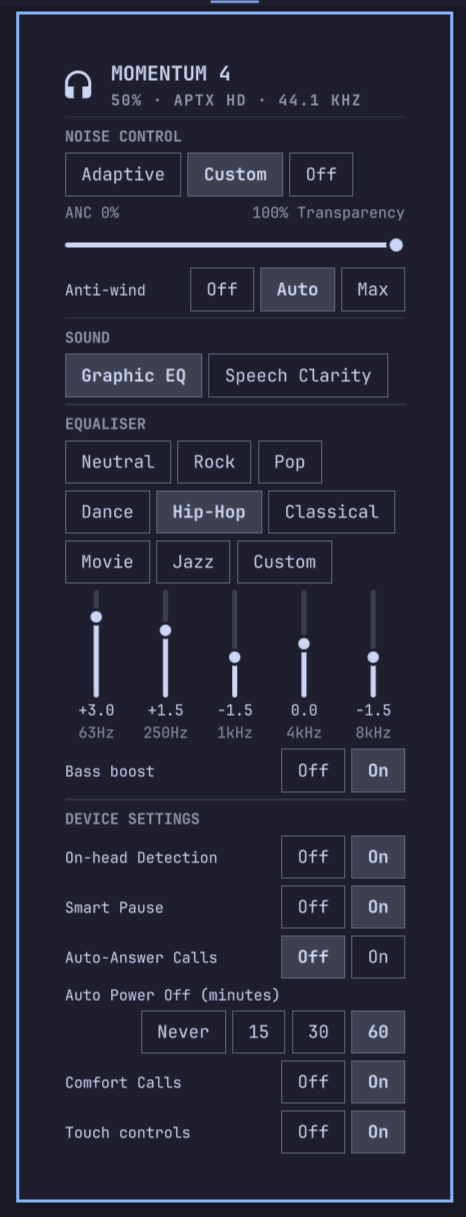
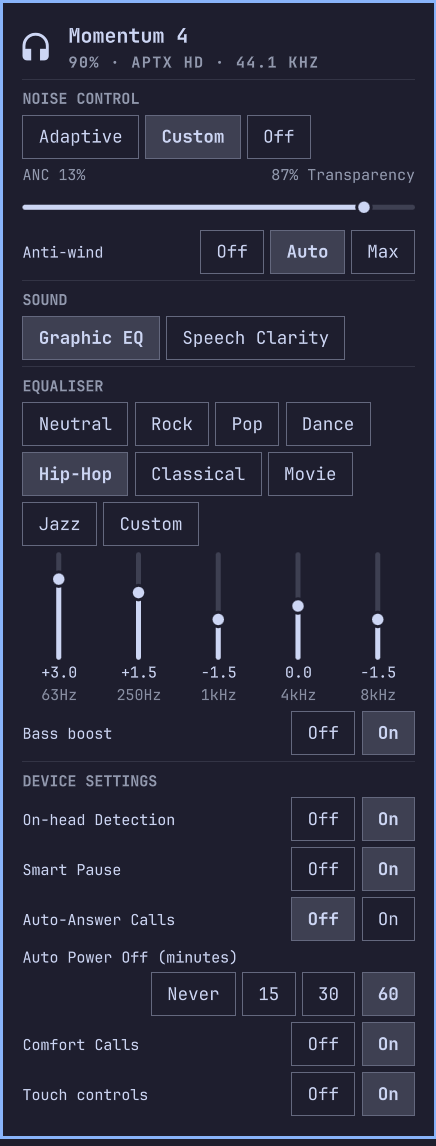
1.3.6: standard panel insets, title-cased device name, shorter README
Panel content fills the KeyboardPanel surface with no margins of its own
and passes a bare implicitHeight, matching the first-party panels. The
hero shows 'Momentum 4' instead of the shouted Bluetooth name. README cut
to 775 words, no em dashes. Screenshots refreshed.

Changed region(s): [[0.0, 0.0, 1.0, 1.0], [0.4472, 0.5192, 0.5367, 0.6108], [0.7156, 0.0611, 0.7752, 0.0916]]

diff --git a/Panel.qml b/Panel.qml
@@ -64,6 +64,17 @@ Panel {
   property bool busy: false
   property bool stale: false          // last poll failed; readings are old
 
+  // The headphones report their Bluetooth name as "MOMENTUM 4"; shouting it
+  // in the header reads worse than the product's own name. Title-case only
+  // when the name is entirely upper case, so a device that names itself
+  // properly is left alone.
+  readonly property string displayName: {
+    var n = root.deviceName !== "" ? root.deviceName : "Headphones"
+    return n === n.toUpperCase()
+      ? n.toLowerCase().replace(/\b[a-z]/g, function (c) { return c.toUpperCase() })
+      : n
+  }
+
   readonly property bool present: percentage >= 0
   readonly property bool low: present && percentage <= 20
 
@@ -262,10 +273,7 @@ Panel {
     open: root.opened
     focusTarget: keyCatcher
     contentWidth: panel.fittedContentWidth(Style.space(300))
-    // panelColumn.implicitHeight excludes its own anchors.margins, so passing
-    // it raw made the panel two paddings too short and clipped the last row.
-    contentHeight: panel.fittedContentHeight(
-      panelColumn.implicitHeight + Style.spacing.panelPadding * 2, Style.space(900))
+    contentHeight: panel.fittedContentHeight(panelColumn.implicitHeight, Style.space(900))
 
     PanelKeyCatcher {
       id: keyCatcher
@@ -278,10 +286,10 @@ Panel {
 
       Column {
         id: panelColumn
-        anchors.left: parent.left
-        anchors.right: parent.right
-        anchors.top: parent.top
-        anchors.margins: Style.spacing.panelPadding
+        // anchors.fill, no margins of our own: KeyboardPanel already pads the
+        // surface, and adding panelPadding on top of it was what made this
+        // panel sit inside a much fatter border than the built-in ones.
+        anchors.fill: parent
         spacing: Style.spacing.sm
         // While the device is connected but not answering (another client
         // holds the channel), the readings are last-known and a write would
@@ -293,7 +301,7 @@ Panel {
         // right — the shape the built-in panels and other plugins use.
         PanelHero {
           width: parent.width
-          title: root.deviceName !== "" ? root.deviceName : "Headphones"
+          title: root.displayName
           // Kept short: the badge eats the right-hand side, and a longer
           // string elides mid-codec.
           meta: (root.present ? root.percentage + "%" + (root.charging ? " · charging" : "")

diff --git a/README.md b/README.md
@@ -1,20 +1,20 @@
 # Sennheiser Momentum 4
 
-Control your **Sennheiser Momentum 4** headphones from the [Omarchy](https://omarchy.org/) bar — battery, noise control, EQ and touch controls, without reaching for your phone.
+Control Sennheiser Momentum 4 headphones from the [Omarchy](https://omarchy.org/)
+bar: battery, noise control, EQ and touch controls, without reaching for
+your phone.
 
 ![Battery in the bar](docs/bar.png)
 
 ![The panel](docs/panel.png)
 
-This is built for one set of headphones. It speaks the Momentum 4's own
-protocol, so it will not work with anything else. It is self-contained —
-plain Python from the standard library, no extra packages, no binaries, and
-nothing that needs root.
+Built for one set of headphones. It speaks the Momentum 4's own protocol
+and will not work with anything else. Plain standard-library Python, no
+packages, no binaries, no root.
 
 ## Install
 
-No setup, no root. Pair the headphones over Bluetooth, then:
-
+Pair the headphones over Bluetooth, then:
 
 ```bash
 omarchy plugin add https://github.com/DanSmith888/omarchy-momentum4.git --enable
@@ -26,8 +26,8 @@ omarchy plugin add https://github.com/DanSmith888/omarchy-momentum4.git --enable
 ~/.config/omarchy/plugins/dansmith888.momentum4/bin/m4ctl doctor
 ```
 
-Verifies every link from the headphones to the bar and tells you how to fix
-whatever is broken. Put `bin/` on your `PATH` if you want `m4ctl` as a command.
+Checks every link from the headphones to the bar and says how to fix
+whatever is broken.
 
 ## Update
 
@@ -41,15 +41,12 @@ omarchy plugin update dansmith888.momentum4 && omarchy restart shell
 omarchy plugin remove dansmith888.momentum4
 ```
 
-That removes everything. The plugin never touched anything outside its own
-folder and a lock file in `$XDG_RUNTIME_DIR`.
+Nothing is left behind except a lock file in `$XDG_RUNTIME_DIR`.
 
 ## Using it
 
-**Left-click** the battery pill to open the panel. **Scroll** on it to adjust
-noise level without opening anything. **Middle-click** to force a refresh.
-
-To open the panel from a hotkey, bind:
+Left-click the battery pill for the panel. Scroll on it to adjust the noise
+level. Middle-click to refresh. From a hotkey:
 
 ```bash
 omarchy-shell shell toggle dansmith888.momentum4
@@ -57,150 +54,120 @@ omarchy-shell shell toggle dansmith888.momentum4
 
 ## What it does
 
-Everything Sennheiser's **Smart Control** phone app exposes that the
-headphones will tell us about:
+Everything Sennheiser's Smart Control app exposes that the headphones will
+report:
 
-- **Battery** in the bar, at a glance — and in the panel, the codec and
-  sample rate PipeWire is actually sending (aptX HD · 44.1 kHz, say)
-- **Noise control** — Adaptive / Custom / Off, with the ANC ↔ Transparency slider
-- **Anti-wind** — Off / Auto / Max
-- **Sound mode** — Graphic EQ or Speech Clarity
-- **Five-band EQ** — Smart Control's eight presets, or drag any band yourself
-- **Bass boost**
-- **Touch controls** — enable or disable the on-cup controls
-- **Device settings** — On-head Detection, Smart Pause, Auto-Answer Calls,
-  Comfort Calls and Auto Power Off (the app's Device Settings pane)
-- **Not covered**: Tone & voice prompts and the Hi-Res audio mode — their
-  commands weren't found; see [PROTOCOL.md](PROTOCOL.md). Hi-Res is moot on
-  Linux anyway: the link is aptX HD regardless. Charging state is announced
-  by the headphones but can't be asked for, so a polling widget can't show it
+- Battery in the bar; in the panel, the codec and sample rate PipeWire is
+  sending (aptX HD at 44.1 kHz, for example)
+- Noise control: Adaptive, Custom or Off, with the ANC to Transparency slider
+- Anti-wind: Off, Auto or Max
+- Sound mode: Graphic EQ or Speech Clarity
+- Five-band EQ: Smart Control's eight presets, or drag any band
+- Bass boost
+- Touch controls on or off
+- Device settings: On-head Detection, Smart Pause, Auto-Answer Calls,
+  Comfort Calls, Auto Power Off
 
-Everything is read back from the headphones, so the panel always shows their
-real state — change something in Smart Control and it follows.
+Not covered: tone and voice prompts, and Hi-Res mode (their commands were
+not found; see [PROTOCOL.md](PROTOCOL.md)). Hi-Res is moot on Linux, where
+the link is aptX HD regardless.
+
+Everything is read back from the headphones, so a change made in Smart
+Control shows up here.
 
 ## Requirements
 
 - Omarchy with `omarchy-shell`
 - A Sennheiser Momentum 4, paired over Bluetooth
-- Python 3 (standard library only)
+- Python 3, standard library only
 
 ## Command line
 
-The backend works on its own, if you'd rather script it:
-
 ```bash
-m4ctl get                    # everything, human readable
-m4ctl get --json             # everything, for scripts
+m4ctl get [--json]
 m4ctl mode adaptive|custom|off
 m4ctl antiwind off|auto|max
-m4ctl transparency 0-100     # 0 = full ANC, 100 = full transparency
+m4ctl transparency 0-100        # 0 = full ANC, 100 = full transparency
 m4ctl sound-mode eq|speech
-m4ctl preset Rock            # m4ctl presets to list them
-m4ctl eq                     # show the curve
-m4ctl eq-set 2 -1.5          # band 0-4, gain in dB
+m4ctl preset Rock               # m4ctl presets lists them
+m4ctl eq                        # show the curve
+m4ctl eq-set 2 -1.5             # band 0-4, gain in dB
 m4ctl bass on|off
-m4ctl controls on|off        # on-cup touch controls
+m4ctl controls on|off
 m4ctl auto-answer on|off
 m4ctl comfort-call on|off
 m4ctl smart-pause on|off
 m4ctl on-head on|off
-m4ctl auto-off never|15|30|60   # minutes idle before they switch off
+m4ctl auto-off never|15|30|60   # minutes idle before power off
 m4ctl doctor
 ```
 
 ## Hacking on it
 
-Clone the repo, then check and try changes without going through git:
-
 ```bash
 omarchy plugin validate .
 
-# Qt 6 qmllint, with the shell's qs.* imports resolvable. /usr/bin/qmllint
-# is Qt 5 on Arch and exits silently; use the Qt 6 binary.
+# Qt 6 qmllint with the shell's qs.* imports resolvable (/usr/bin/qmllint is Qt 5).
 mkdir -p "$XDG_RUNTIME_DIR/qsroot" && ln -sfn "$OMARCHY_PATH/shell" "$XDG_RUNTIME_DIR/qsroot/qs"
 /usr/lib/qt6/bin/qmllint -I "$XDG_RUNTIME_DIR/qsroot" BarWidget.qml Panel.qml
 
-# Copy (never symlink — the validator rejects symlinks) into the plugins
-# dir; the shell hot-reloads on save.
+# Copy into the plugins dir (never symlink; the validator rejects symlinks).
 rsync -a --delete --exclude .git ./ ~/.config/omarchy/plugins/dansmith888.momentum4/
 omarchy-shell shell toggle dansmith888.momentum4
 qs log -p "$OMARCHY_PATH/shell" --tail 100
 ```
 
-`Style.*` members reported as "not found on type QObject" are lint noise;
-anything tagged `[syntax]` is real.
+`Style.*` "not found on type QObject" lint messages are noise; anything
+tagged `[syntax]` is real.
 
 ## Good to know
 
-**Charging isn't shown.** The headphones announce cable in/out over GAIA but
-offer no way to ask, and this widget polls rather than listens — so battery
-keeps reading normally while charging and nothing says so.
-
-**The "USB-C connected" label only appears when the cable goes to this PC
-*and* the headphones enumerate as a USB audio device**, which they don't
-always. What we can detect is that the headphones have enumerated as a **USB audio
-card** on this host: plugged into a computer they present a sound device, and
-`m4status` matches the first word of their Bluetooth name against
-`/proc/asound/cards`.
-
-So the label is really "plugged into this machine", not "charging":
-
-| Cable goes to | Panel shows |
-|---|---|
-| This PC, enumerated as USB audio | "USB-C connected" |
-| A wall charger, or another machine | nothing |
-
-**EQ presets live in this repo, not the headphones.** The headphones only store
-the active curve; Smart Control pushes preset values band by band, and so do we.
-Definitions are in [`presets.json`](presets.json).
-
-You *can* edit them, but be aware of the trade-off: Smart Control identifies a
-preset by matching the curve values, so it shows a tick against whichever
-preset the headphones currently match. Change a preset's numbers here and
-applying it will no longer tick that preset in Smart Control — it will read as
-a custom curve. Leave them as shipped if you want the two to agree; change them
-if you prefer your own sound and don't mind the mismatch.
-
-**Band labels are Smart Control's.** The panel shows 63Hz/250Hz/1kHz/4kHz/8kHz
-to match it; the hardware's real centre frequencies are
-90/325/1500/6500/6500 Hz.
+- **Charging is not shown.** The headphones announce cable in and out but
+  cannot be asked, and this widget polls. Battery keeps reading normally
+  while charging.
+- **"USB-C connected" means plugged into this PC**, detected when the
+  headphones enumerate as a USB audio card (`/proc/asound/cards`). A wall
+  charger or another machine shows nothing.
+- **EQ presets live in this repo** ([`presets.json`](presets.json)), not in
+  the headphones, which only hold the active curve. Smart Control ticks
+  whichever preset matches the current curve, so if you edit a preset here
+  it will show as a custom curve there.
+- **Band labels are Smart Control's** (63 Hz to 8 kHz). The hardware's real
+  centres are 90/325/1500/6500/6500 Hz.
 
 ## What runs, and as whom
 
-Plugins run unsandboxed inside the Omarchy shell with your user's permissions,
-so here is exactly what this one does:
+Plugins run unsandboxed inside the Omarchy shell as your user.
 
-- `bin/m4status` and `bin/m4ctl` are run by the widget as your user. They ask
-  `bluetoothctl` which device is connected and talk to the headphones over an
-  RFCOMM socket. Nothing else.
-- No root, ever. No network access, no downloads, no background services, no
-  writes outside `$XDG_RUNTIME_DIR` (a lock file).
-- `tools/` is the reverse-engineering kit used to write [PROTOCOL.md](PROTOCOL.md).
-  The widget never runs it. `tools/gaia-probe` sends arbitrary commands to the
-  headphones — read its `--help` before pointing it at them.
+- `bin/m4status` and `bin/m4ctl` ask `bluetoothctl` which device is
+  connected and talk to the headphones over an RFCOMM socket. Nothing else.
+- No root, no network, no background services, no writes outside
+  `$XDG_RUNTIME_DIR` (a lock file).
+- `tools/` is the reverse-engineering kit behind [PROTOCOL.md](PROTOCOL.md).
+  The widget never runs it. `tools/gaia-probe` sends arbitrary commands to
+  the headphones; read its `--help` first.
 
 ## Related
 
 [omarchy-momentumctl](https://github.com/timmo001/omarchy-momentumctl) is
-another Omarchy panel for Sennheiser headsets, built on the external
-[`momentumctl`](https://github.com/gjabell/momentumctl) CLI — whose source is
-where the battery and phone-call command IDs used here came from.
+another Omarchy panel for Sennheiser headsets, built on the
+[`momentumctl`](https://github.com/gjabell/momentumctl) CLI, whose source
+supplied the battery and call command IDs used here.
 
 ## Protocol
 
-The Momentum 4's GAIA command set is documented in [PROTOCOL.md](PROTOCOL.md) —
-command IDs, payload formats, the tools used to find them, and the traps
-involved. Useful if you're writing anything else for these headphones, on any
-platform.
+[PROTOCOL.md](PROTOCOL.md) documents the Momentum 4's GAIA command set:
+IDs, payloads, the tools used to find them, and the traps. Useful for
+anything else you write for these headphones, on any platform.
 
 ## Credits
 
-Protocol constants and the RFCOMM channel-probing approach are derived from
-[momentum4-control](https://github.com/f3Y0/momentum4-control) by f3Y0, MIT
-licensed. The battery, on-head, auto-answer, Smart Pause and Comfort Call
+Protocol constants and the RFCOMM channel-probing approach come from
+[momentum4-control](https://github.com/f3Y0/momentum4-control) by f3Y0
+(MIT). The battery, on-head, auto-answer, Smart Pause and Comfort Call
 command IDs come from [momentumctl](https://github.com/gjabell/momentumctl)
-by gjabell, MIT licensed.
+by gjabell (MIT).
 
 ## Licence
 
-MIT — see [LICENSE](LICENSE).
+MIT, see [LICENSE](LICENSE).
